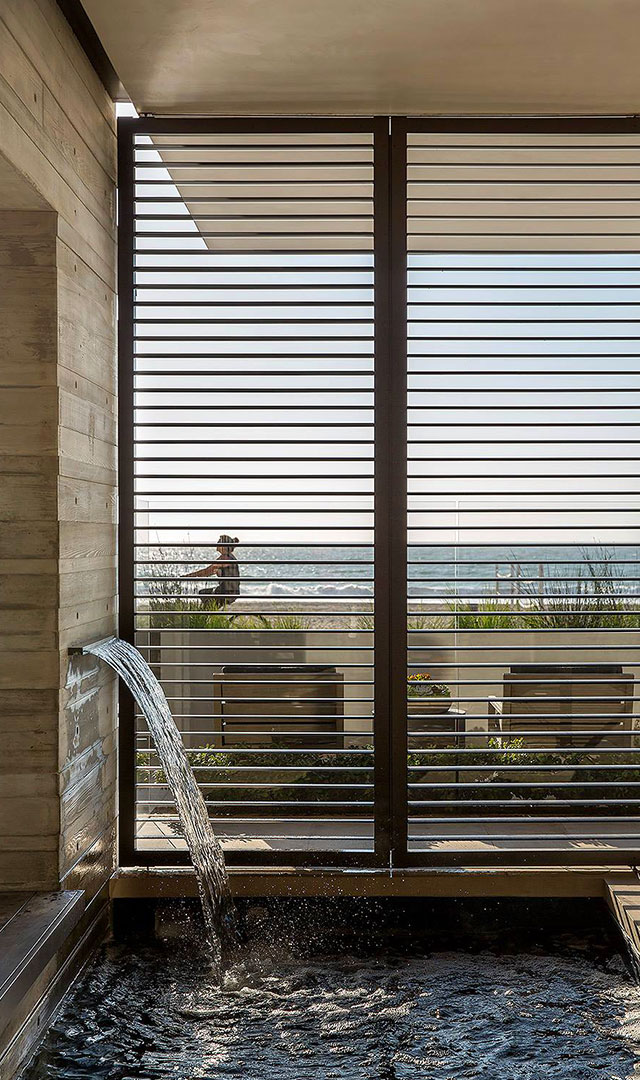
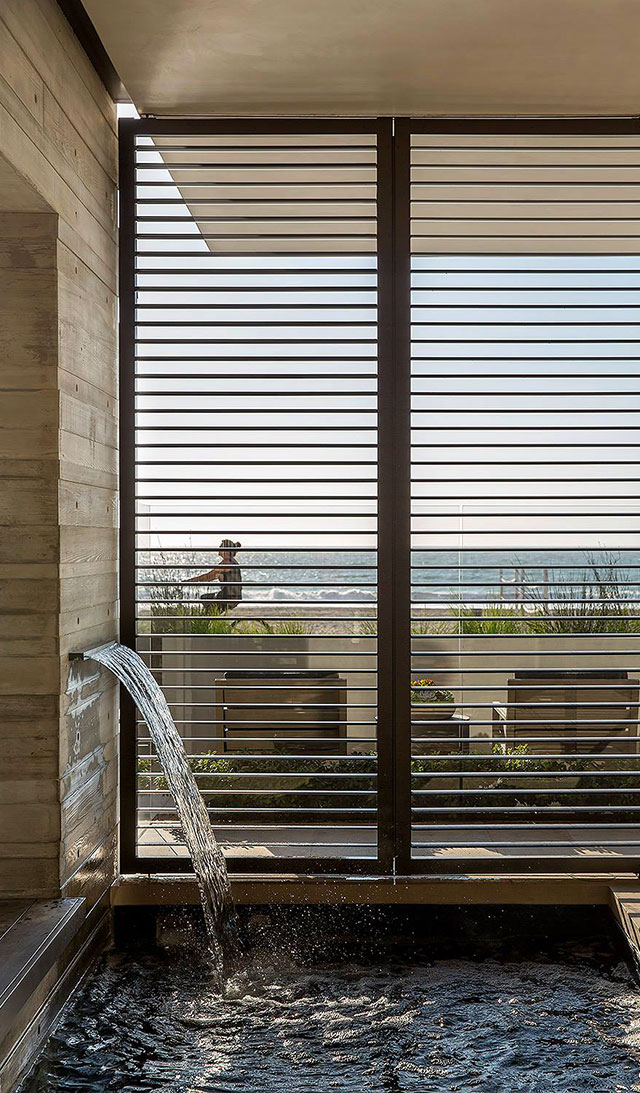
Added fourth grid section

diff --git a/site/src/styles/home/_grid.scss b/site/src/styles/home/_grid.scss
@@ -12,15 +12,13 @@ $hm-grid-text-break: 1010px;
 // min-width since the mobile styles are so different it was easier to not have to override anything
 // ------------------------------------------------------------------------------------------------- //
 @media (min-width: $hm-grid-single-column-break + 1) {
+  // grid
   .hm-grid {
     position: relative;
+    background-color: $lightBrown;
   }
-  .hm-grid--3-high {
-    padding-top: 84.375%;
-  }
-  .hm-grid--2-high {
-    padding-top: 56.25%;
-  }
+
+  // content
   .hm-grid__content {
     position: absolute;
     top: 0;
@@ -41,49 +39,84 @@ $hm-grid-text-break: 1010px;
     width: 100%;
     height: 100%;
   }
-  .hm-grid__item--square-lrg {
-    width: 66.7%;
-    height: 66.7%;
-  }
-  .hm-grid__item--square {
-    width: 33.3%;
-    height: 33.3%;
-  }
-  .hm-grid__item--horizontal {
-    width: 66.7%;
-    height: 33.3%;
-  }
-  .hm-grid__item--vertical {
-    width: 33.3%;
-    height: 66.7%;
-  }
 
-  // layout one
+  // three blocks high
   // ----------------------------------------- //
-  .hm-grid--1 {
+  .hm-grid--3-high {
+    padding-top: 84.375%;
 
+    .hm-grid__item--square-lrg {
+      width: 66.7%;
+      height: 66.7%;
+    }
+    .hm-grid__item--text,
+    .hm-grid__item--square {
+      width: 33.3%;
+      height: 33.3%;
+    }
+    .hm-grid__item--horizontal {
+      width: 66.7%;
+      height: 33.3%;
+    }
+    .hm-grid__item--vertical {
+      width: 33.3%;
+      height: 66.7%;
+    }
+  }
+
+  // two blocks high
+  // ----------------------------------------- //
+  .hm-grid--2-high {
+    padding-top: 56.25%;
+
+    .hm-grid__item--square-lrg {
+      width: 66.7%;
+      height: 100%;
+    }
+    .hm-grid__item--text,
+    .hm-grid__item--square {
+      width: 33.3%;
+      height: 50%;
+    }
+    .hm-grid__item--horizontal {
+      width: 66.7%;
+      height: 50%;
+    }
+    .hm-grid__item--vertical {
+      width: 33.3%;
+      height: 100%;
+    }
   }
 }
 
 // Make text blocks taller
 // ------------------------------------------------------------------------------------------------- //
 @media (max-width: $hm-grid-text-break) {
-  // layout one
-  // ----------------------------------------- //
-  .hm-grid__item--square {
-    height: 50%;
+  // three blocks high
+  .hm-grid--3-high {
+    .hm-grid__item--text {
+      height: 50%;
+    }
+    .hm-grid__item--vertical {
+      height: 50%;
+    }
   }
-  .hm-grid__item--vertical {
-    height: 50%;
+
+  // two blocks high
+  .hm-grid--2-high {
+    .hm-grid__item--text {
+      height: 60%;
+    }
+    .hm-grid__item--square {
+      height: 40%;
+    }
   }
 }
 
 // single column
 // ------------------------------------------------------------------------------------------------- //
 @media (max-width: $hm-grid-single-column-break) {
-  .hm-grid {
-
-  }
+  // content
   .hm-grid__content {
     display: flex;
     flex-direction: column;
@@ -95,7 +128,7 @@ $hm-grid-text-break: 1010px;
     .hm-grid__item--square-lrg {
       order: 1;
     }
-    .hm-grid__item--square {
+    .hm-grid__item--text {
       order: 2;
     }
     .hm-grid__item--vertical {
@@ -109,7 +142,7 @@ $hm-grid-text-break: 1010px;
   // layout three
   // ----------------------------------------- //
   .hm-grid--3 {
-    .hm-grid__item--square {
+    .hm-grid__item--text {
       order: 1;
     }
     .hm-grid__item--square-lrg {
@@ -120,6 +153,20 @@ $hm-grid-text-break: 1010px;
     }
     .hm-grid__item--horizontal {
       order: 4;
+    }
+  }
+
+  // layout four
+  // ----------------------------------------- //
+  .hm-grid--4 {
+    .hm-grid__item--square-lrg {
+      order: 1;
+    }
+    .hm-grid__item--text {
+      order: 2;
+    }
+    .hm-grid__item--square {
+      order: 3;
     }
   }
 }

diff --git a/site/src/styles/_vars.scss b/site/src/styles/_vars.scss
@@ -1,6 +1,7 @@
 // Colors
 // ---------------------------------------------------------------------------------------------- //
 $black: #000000;
+$white: #ffffff;
 $brown: #615954;
 $lightBrown: #b6a89e;
 $orange: #c46b37;

diff --git a/site/src/styles/home/grid/_image-block.scss b/site/src/styles/home/grid/_image-block.scss
@@ -1,6 +1,7 @@
 @media (min-width: $hm-grid-single-column-break + 1) {
   .hm-image-block {
-
+    line-height: 0;
+    font-size: 0;
   }
   .hm-image-block__picture {
     position: absolute;

diff --git a/site/src/styles/home/grid/_text-block.scss b/site/src/styles/home/grid/_text-block.scss
@@ -1,6 +1,6 @@
 @media (min-width: $hm-grid-single-column-break + 1) {
   .hm-text-block {
-
+    background: $white;
   }
   .hm-text-block__content {
     position: absolute;

diff --git a/site/src/styles/home/grid/_project-block.scss b/site/src/styles/home/grid/_project-block.scss
@@ -113,6 +113,8 @@
     left: 0;
     width: 100%;
     z-index: 1;
+    line-height: 0;
+    font-size: 0;
   }
   .hm-project-block__img {
     width: 100%;

diff --git a/site/src/template-parts/home/grid-4.php b/site/src/template-parts/home/grid-4.php
@@ -1,0 +1,43 @@
+<section class="hm-grid hm-grid--4 hm-grid--2-high">
+  <div class="hm-grid__content">
+
+    <!-- Project Block -->
+    <div class="hm-project-block hm-grid__item hm-grid__item--square-lrg">
+      <a href="#" class="hm-project-block__link">
+        <div class="hm-project-block__copy">
+          <h2 class="hm-project-block__header">TBD</h2>
+          <p class="hm-project-block__cta">
+            <span class="hm-project-block__cta-btn">Explore More</span>
+          </p>
+        </div>
+        <p class="hm-project-block__more">More <?php include(__DIR__ ."/../svgs/chevron-right.svg"); ?></p>
+        <picture class="hm-project-block__picture">
+          <source srcset="<?php bloginfo('template_url'); ?>/images/home/grid-4/project-sml.jpg" media="(max-width: 700px)">
+          <source srcset="<?php bloginfo('template_url'); ?>/images/home/grid-4/project-lrg.jpg">
+          <img class="hm-project-block__img" srcset="<?php bloginfo('template_url'); ?>/images/home/grid-4/project-lrg.jpg" alt="">
+        </picture>
+      </a>
+    </div>
+
+    <!-- Text Block -->
+    <div class="hm-text-block hm-grid__item hm-grid__item--text">
+      <div class="hm-text-block__content">
+        <h1 class="hm-text-block__header">Sculpt</h1>
+        <div class="hm-text-block__dash"></div>
+        <div class="hm-text-block__description-container">
+          <p class="hm-text-block__description">Harmonizing form and scale, variety and contrast. By combining right angles with the occasional sinuous curve, which draws the eye through the space, a home becomes both restful and energizing.</p>
+        </div>
+      </div>
+    </div>
+
+    <!-- Image Block -->
+    <div class="hm-image-block hm-grid__item hm-grid__item--square">
+      <picture class="hm-image-block__picture">
+        <source srcset="<?php bloginfo('template_url'); ?>/images/home/grid-4/stairs-sml.jpg" media="(max-width: 700px)">
+        <source srcset="<?php bloginfo('template_url'); ?>/images/home/grid-4/stairs-lrg.jpg">
+        <img class="hm-image-block__img" srcset="<?php bloginfo('template_url'); ?>/images/home/grid-4/stairs-lrg.jpg" alt="">
+      </picture>
+    </div>
+
+  </div>
+</section>

diff --git a/site/src/template-parts/home/grid-1.php b/site/src/template-parts/home/grid-1.php
@@ -29,7 +29,7 @@
     </div>
 
     <!-- Text Block -->
-    <div class="hm-text-block hm-grid__item hm-grid__item--square">
+    <div class="hm-text-block hm-grid__item hm-grid__item--text">
       <div class="hm-text-block__content">
         <h1 class="hm-text-block__header">Reveal</h1>
         <div class="hm-text-block__dash"></div>
@@ -43,8 +43,8 @@
     <div class="hm-image-block hm-grid__item hm-grid__item--vertical">
       <picture class="hm-image-block__picture">
         <source srcset="<?php bloginfo('template_url'); ?>/images/home/grid-1/waterfall-sml.jpg" media="(max-width: 700px)">
-        <source srcset="<?php bloginfo('template_url'); ?>/images/home/grid-1/waterfall-lrg.jpg">
-        <img class="hm-image-block__img" srcset="<?php bloginfo('template_url'); ?>/images/home/grid-1/waterfall-lrg.jpg" alt="">
+        <source srcset="<?php bloginfo('template_url'); ?>/images/home/grid-1/waterfall-lrg-2.jpg">
+        <img class="hm-image-block__img" srcset="<?php bloginfo('template_url'); ?>/images/home/grid-1/waterfall-lrg-2.jpg" alt="">
       </picture>
     </div>
 

diff --git a/site/src/template-parts/home/grid-3.php b/site/src/template-parts/home/grid-3.php
@@ -2,7 +2,7 @@
   <div class="hm-grid__content">
 
     <!-- Text Block -->
-    <div class="hm-text-block hm-grid__item hm-grid__item--square">
+    <div class="hm-text-block hm-grid__item hm-grid__item--text">
       <div class="hm-text-block__content">
         <h1 class="hm-text-block__header">Weave</h1>
         <div class="hm-text-block__dash"></div>

diff --git a/site/src/index.php b/site/src/index.php
@@ -4,5 +4,6 @@
 <?php include("template-parts/home/grid-1.php"); ?>
 <?php include("template-parts/home/grid-2.php"); ?>
 <?php include("template-parts/home/grid-3.php"); ?>
+<?php include("template-parts/home/grid-4.php"); ?>
 
 <?php get_footer(); ?>
